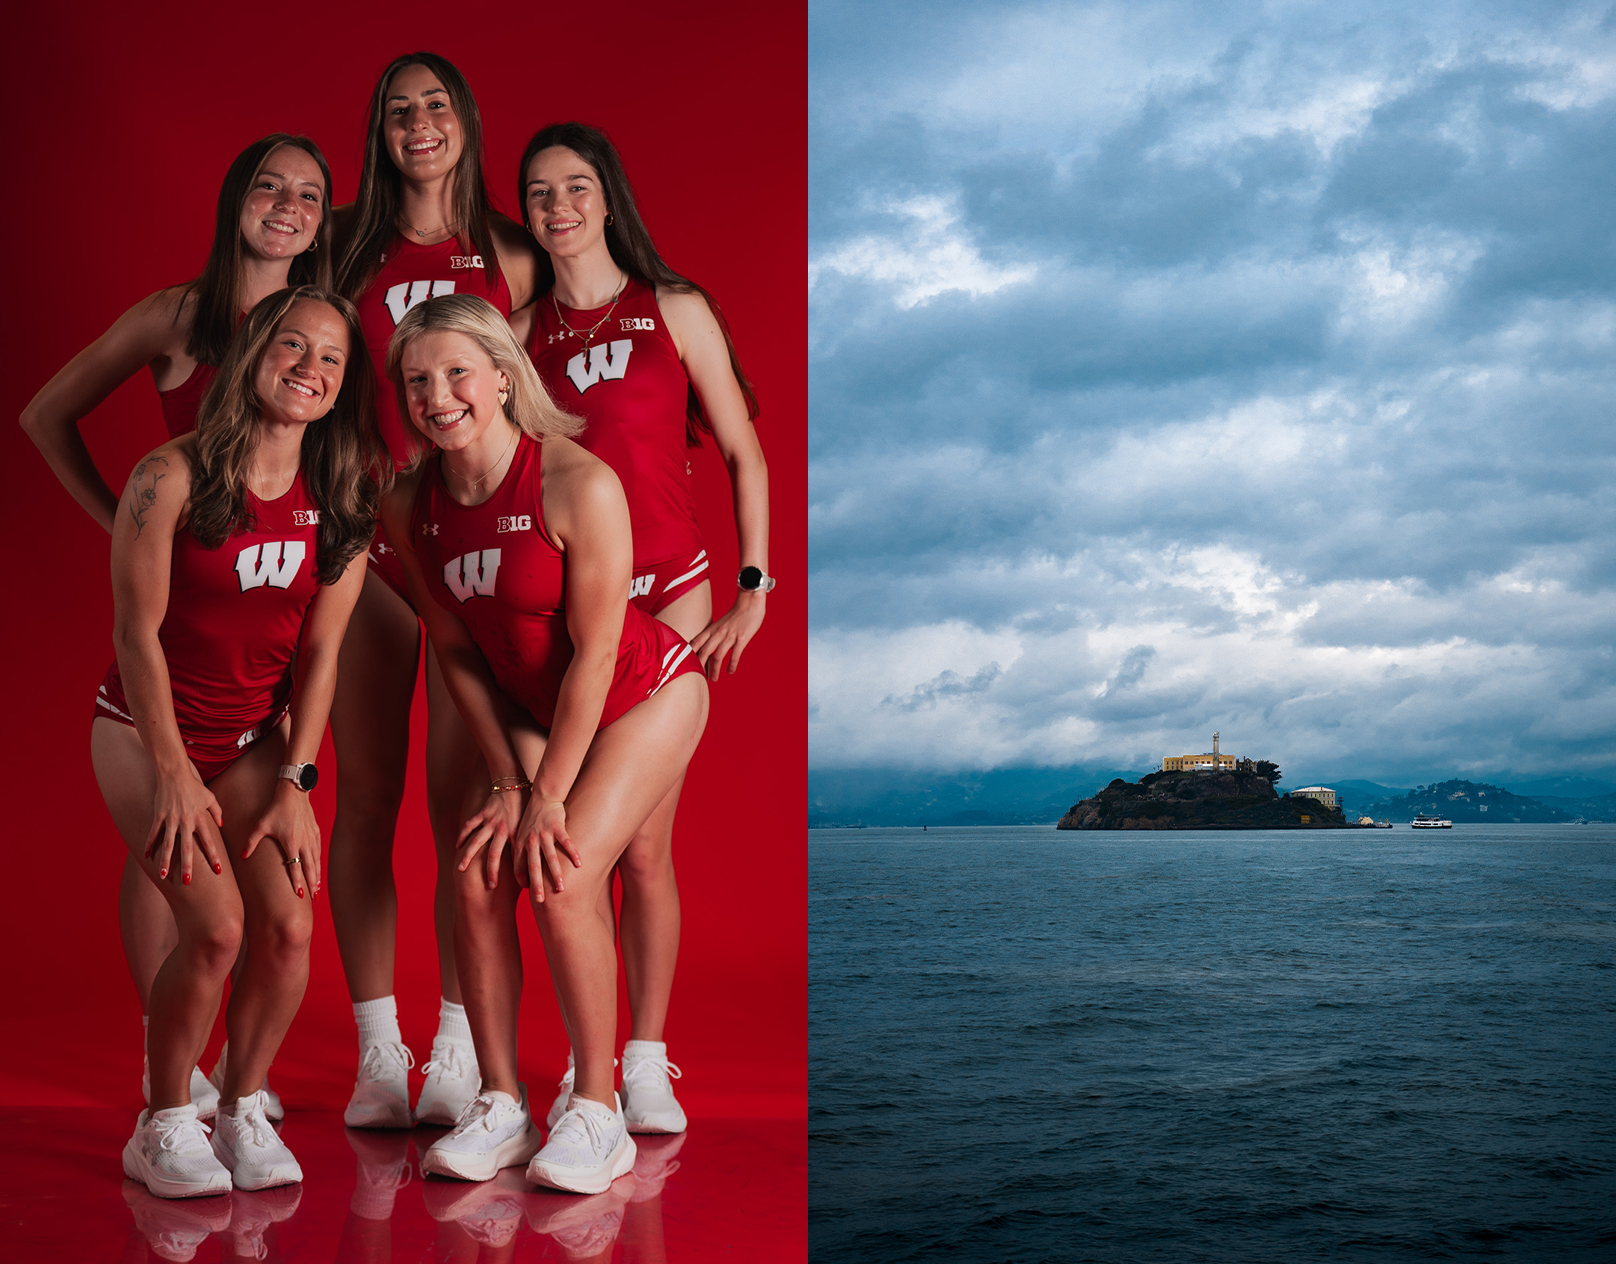
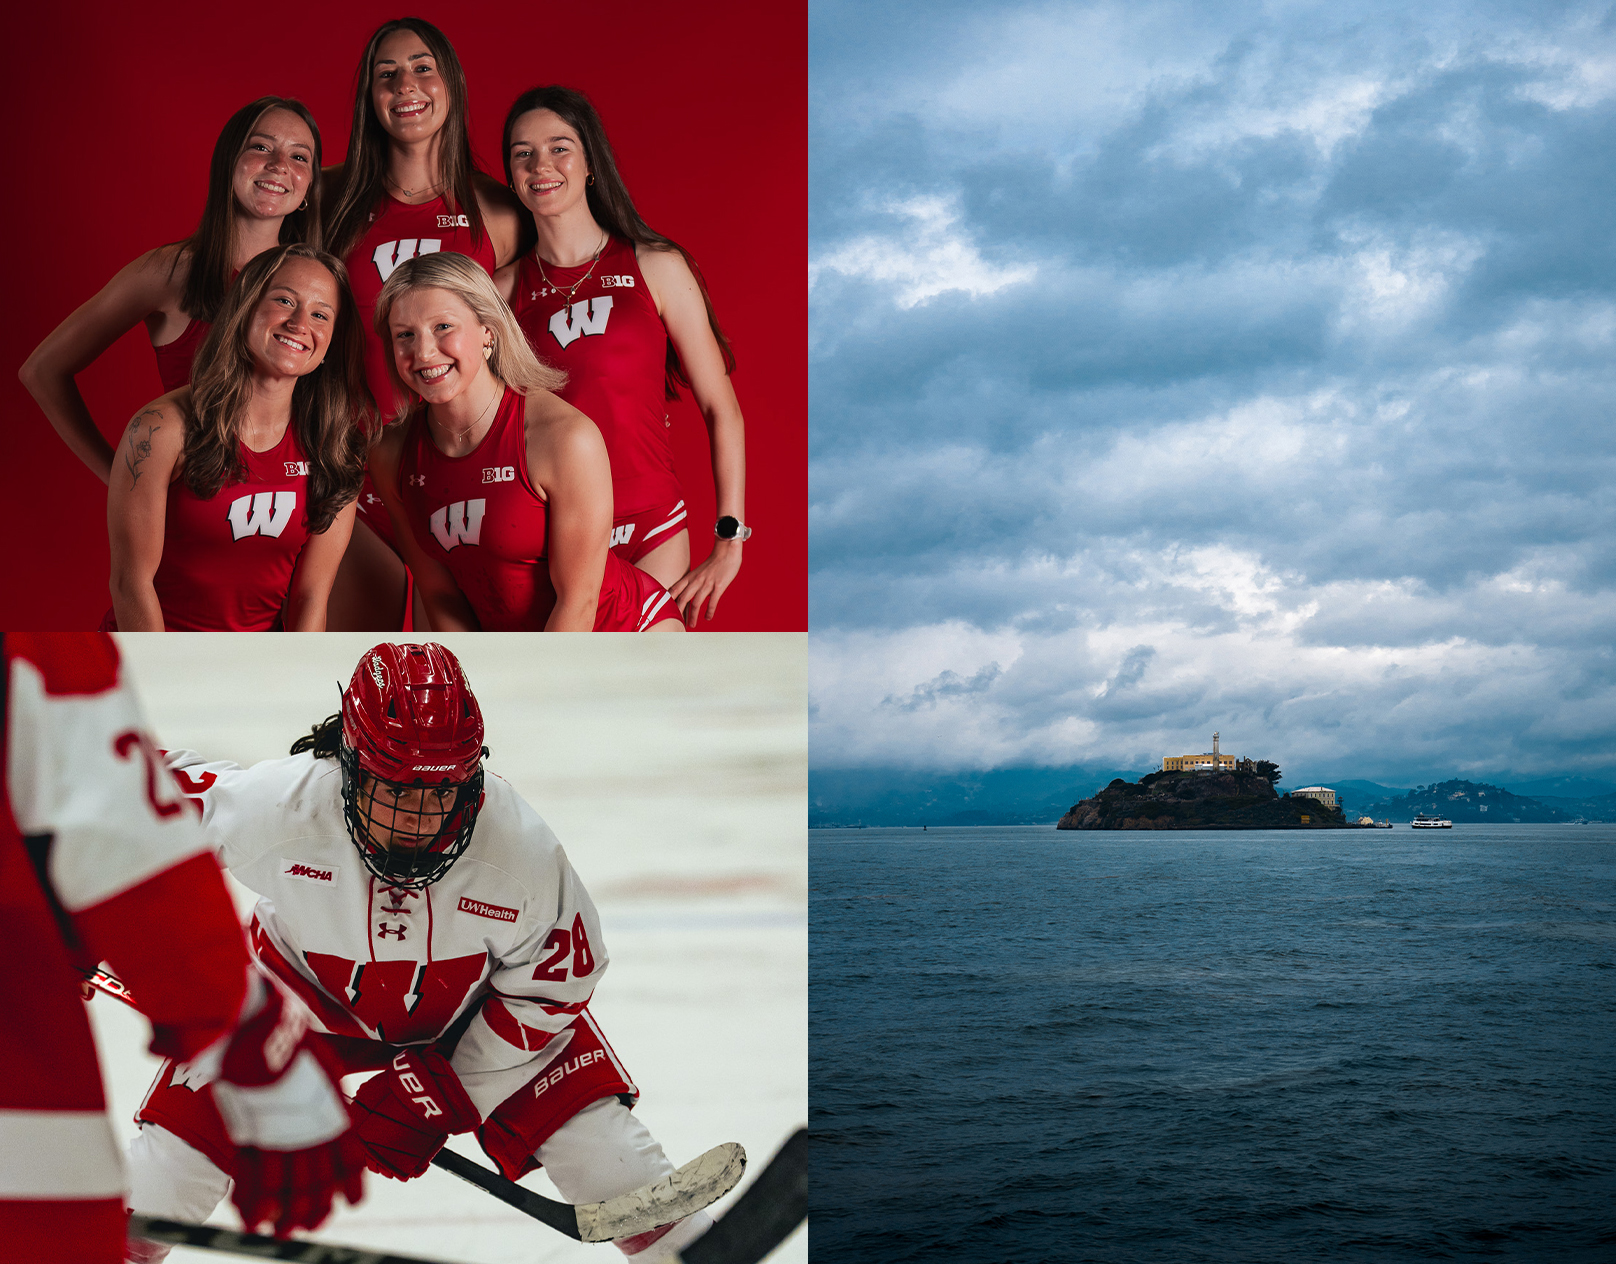
photo update
photo update

diff --git a/photography.html b/photography.html
@@ -4,12 +4,12 @@
     <meta charset="UTF-8">
     <meta name="viewport" content="width=device-width, initial-scale=1.0">
     <title>Photography | Connor Oamek</title>
-    <meta name="description" content="Media Day portraits and personal photography by Connor Oamek.">
+    <meta name="description" content="Hockey photos, Media Day portraits, and personal photography by Connor Oamek.">
     <meta name="theme-color" content="#f2f0e9">
     <meta property="og:site_name" content="Connor Oamek">
     <meta property="og:type" content="website">
     <meta property="og:title" content="Photography | Connor Oamek">
-    <meta property="og:description" content="Media Day portraits and personal photography by Connor Oamek.">
+    <meta property="og:description" content="Hockey photos, Media Day portraits, and personal photography by Connor Oamek.">
     <meta property="og:url" content="https://connoroamek.me/photography.html">
     <meta property="og:image" content="https://connoroamek.me/social-preview.png">
     <meta property="og:image:secure_url" content="https://connoroamek.me/social-preview.png">
@@ -18,7 +18,7 @@
     <meta property="og:image:height" content="630">
     <meta name="twitter:card" content="summary_large_image">
     <meta name="twitter:title" content="Photography | Connor Oamek">
-    <meta name="twitter:description" content="Media Day portraits and personal photography by Connor Oamek.">
+    <meta name="twitter:description" content="Hockey photos, Media Day portraits, and personal photography by Connor Oamek.">
     <meta name="twitter:image" content="https://connoroamek.me/social-preview.png">
     <link rel="icon" href="favicon.png" type="image/png">
     <link rel="preconnect" href="https://fonts.googleapis.com">
@@ -42,18 +42,42 @@
             <p class="case-kicker">Photography</p>
             <div class="case-hero-copy">
                 <h1 id="case-title">Photography</h1>
-                <p class="case-lede">Media Day portraits and personal photographs.</p>
+                <p class="case-lede">Hockey photos, Media Day portraits, and personal photographs.</p>
             </div>
             <div class="case-meta">
                 <div><p class="case-meta-label">Role</p><p class="case-meta-value">Photographer</p></div>
-                <div><p class="case-meta-label">Categories</p><p class="case-meta-value">Media Day, Personal</p></div>
+                <div><p class="case-meta-label">Categories</p><p class="case-meta-value">Hockey, Media Day, Personal</p></div>
                 <div><p class="case-meta-label">Focus</p><p class="case-meta-value">Portraits, sports, places</p></div>
+            </div>
+        </section>
+
+        <section id="hockey-photos" class="case-section" aria-labelledby="hockey-photos-title">
+            <div class="case-section-head">
+                <div><p class="eyebrow">01</p><h2 id="hockey-photos-title">Hockey Photos</h2></div>
+            </div>
+            <div class="case-gallery photo-gallery hockey-gallery">
+                <figure><img src="assets/photography/web/gallery/hockey-photo-01.jpg" alt="Wisconsin women's hockey team posing together on the ice" width="1200" height="1800" loading="eager" decoding="async"></figure>
+                <figure><img src="assets/photography/web/gallery/hockey-photo-02.jpg" alt="Hannah Halverson skating near the Wisconsin logo at center ice" width="1200" height="1800" loading="lazy" decoding="async"></figure>
+                <figure><img src="assets/photography/web/gallery/hockey-photo-03.jpg" alt="Charlotte Pieckenhagen leaning into a turn on the ice" width="1200" height="1800" loading="lazy" decoding="async"></figure>
+                <figure><img src="assets/photography/web/gallery/hockey-photo-14.jpg" alt="Motion-blurred Wisconsin and Boston University players battling near the goal" width="1200" height="1800" loading="lazy" decoding="async"></figure>
+                <figure><img src="assets/photography/web/gallery/hockey-photo-04.jpg" alt="Laney Potter defending against a Boston University player" width="1200" height="1800" loading="lazy" decoding="async"></figure>
+                <figure><img src="assets/photography/web/gallery/hockey-photo-05.jpg" alt="Wisconsin and Boston University players lined up for a faceoff" width="1200" height="1800" loading="lazy" decoding="async"></figure>
+                <figure><img src="assets/photography/web/gallery/hockey-photo-06.jpg" alt="Motion-blurred hockey players skating across the ice" width="1200" height="1800" loading="lazy" decoding="async"></figure>
+                <figure><img src="assets/photography/web/gallery/hockey-photo-15.jpg" alt="Wisconsin and Boston University players gathered in front of the Wisconsin goal" width="1200" height="1800" loading="lazy" decoding="async"></figure>
+                <figure><img src="assets/photography/web/gallery/hockey-photo-07.jpg" alt="Wisconsin players gathered near their goalie on the ice" width="1200" height="1800" loading="lazy" decoding="async"></figure>
+                <figure><img src="assets/photography/web/gallery/hockey-photo-16.jpg" alt="Motion-blurred hockey players racing across the ice with their sticks extended" width="1200" height="1800" loading="lazy" decoding="async"></figure>
+                <figure><img src="assets/photography/web/gallery/hockey-photo-08.jpg" alt="Wisconsin women's hockey team huddling around the goal" width="1200" height="1800" loading="lazy" decoding="async"></figure>
+                <figure><img src="assets/photography/web/gallery/hockey-photo-09.jpg" alt="Cassie Hall reaching for the puck alongside a Boston University player" width="1200" height="1800" loading="lazy" decoding="async"></figure>
+                <figure><img src="assets/photography/web/gallery/hockey-photo-10.jpg" alt="Charlotte Pieckenhagen skating toward the Boston University goal" width="1200" height="1800" loading="lazy" decoding="async"></figure>
+                <figure><img src="assets/photography/web/gallery/hockey-photo-11.jpg" alt="Laney Potter in game action viewed from behind the opposing goal" width="1200" height="1800" loading="lazy" decoding="async"></figure>
+                <figure><img src="assets/photography/web/gallery/hockey-photo-12.jpg" alt="Rosalie Tremblay crouching with her stick on the ice" width="1200" height="1800" loading="lazy" decoding="async"></figure>
+                <figure><img src="assets/photography/web/gallery/hockey-photo-13.jpg" alt="Ava McNaughton standing in the Wisconsin goal with a referee in the foreground" width="1200" height="1800" loading="lazy" decoding="async"></figure>
             </div>
         </section>
 
         <section class="case-section" aria-labelledby="media-day-title">
             <div class="case-section-head">
-                <div><p class="eyebrow">01</p><h2 id="media-day-title">Media Day Photos</h2></div>
+                <div><p class="eyebrow">02</p><h2 id="media-day-title">Media Day Photos</h2></div>
             </div>
             <p class="case-section-description media-day-description">I had the great privilege to be in charge of the Red-backdrop station during the Mega Media Day Shoot at Camp Randall. I was in charge of taking pictures for a majority of the small sports for two days. It was an awesome experience to work with all of the athletes, even when there were 60 people in a very small area, haha! Above features 14 pictures from the shoot, the original shoot features hundreds of photos, so I picked a few to showcase. All of them were edited with a single Badger preset in Adobe Lightroom.</p>
             <div class="case-gallery media-day-gallery">
@@ -76,7 +100,7 @@
 
         <section class="case-section" aria-labelledby="personal-photos-title">
             <div class="case-section-head">
-                <div><p class="eyebrow">02</p><h2 id="personal-photos-title">Personal Photos</h2></div>
+                <div><p class="eyebrow">03</p><h2 id="personal-photos-title">Personal Photos</h2></div>
             </div>
             <div class="photo-subsection">
                 <h3>Vertical Photos</h3>

diff --git a/index.html b/index.html
@@ -96,10 +96,10 @@
                 </a>
                 <a class="project project-wide" href="photography.html" aria-label="Photography project">
                     <div class="project-image image-photography">
-                        <img src="assets/photography/web/gallery/behance-cover.jpg" srcset="assets/photography/web/gallery/behance-cover-800w.jpg 800w, assets/photography/web/gallery/behance-cover.jpg 1616w" sizes="(max-width: 600px) 100vw, 50vw" alt="Photography project cover with a Wisconsin rowing portrait beside a coastal landscape" width="1616" height="1264" loading="lazy" decoding="async">
+                        <img src="assets/photography/web/gallery/behance-cover.jpg" srcset="assets/photography/web/gallery/behance-cover-800w.jpg 800w, assets/photography/web/gallery/behance-cover.jpg 1616w" sizes="(max-width: 600px) 100vw, 50vw" alt="Photography project cover with Wisconsin athletes, a hockey player, and an island beneath cloudy skies" width="1616" height="1264" loading="lazy" decoding="async">
                         <span class="project-number">05</span>
                     </div>
-                    <div class="project-caption"><h3>Photography</h3><p>Media Day &amp; personal photos <span>↗</span></p></div>
+                    <div class="project-caption"><h3>Photography</h3><p>Hockey, Media Day &amp; personal photos <span>↗</span></p></div>
                 </a>
                 <a class="project project-placeholder" href="thumbnails.html" aria-label="YouTube thumbnails project">
                     <div class="project-image image-thumbnails">
